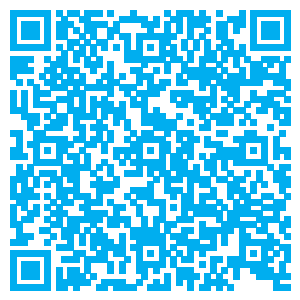
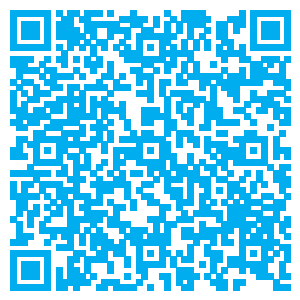
添加全部

diff --git a/index.html b/index.html
@@ -32,7 +32,7 @@
         <h1>“定位停车”下载二维码（Android）</h1>
     </div>
     <div>
-        <a href="https://appfile1.hicloud.com:443/FileServer/getFile/app/020/011/279/20170125160427.40704062:20170125161232:2500:6F29F447C7B90F40D99AA8BFE7C45E292660926486F7678579418C2E8D3CFAC3.apk"></a>
+        <a href="https://appfile1.hicloud.com:443/FileServer/getFile/app/020/011/279/20170125160427.40704062:20170125161756:2500:A705FD2CCEA4787762B3989D9342780FAA42E33F86950AE7EE0BD548C51D7A88.apk"></a>
     </div>
     <div class="img">
         <img src="icon.png" width="500" height="500" />
